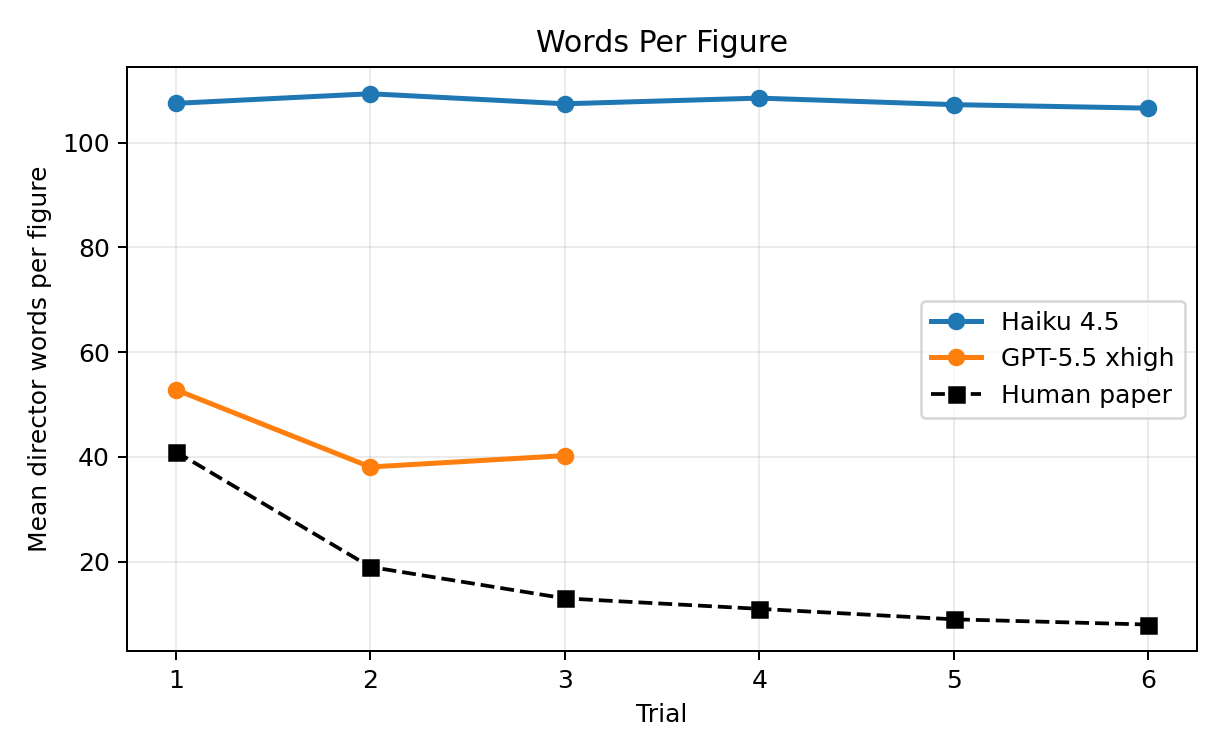
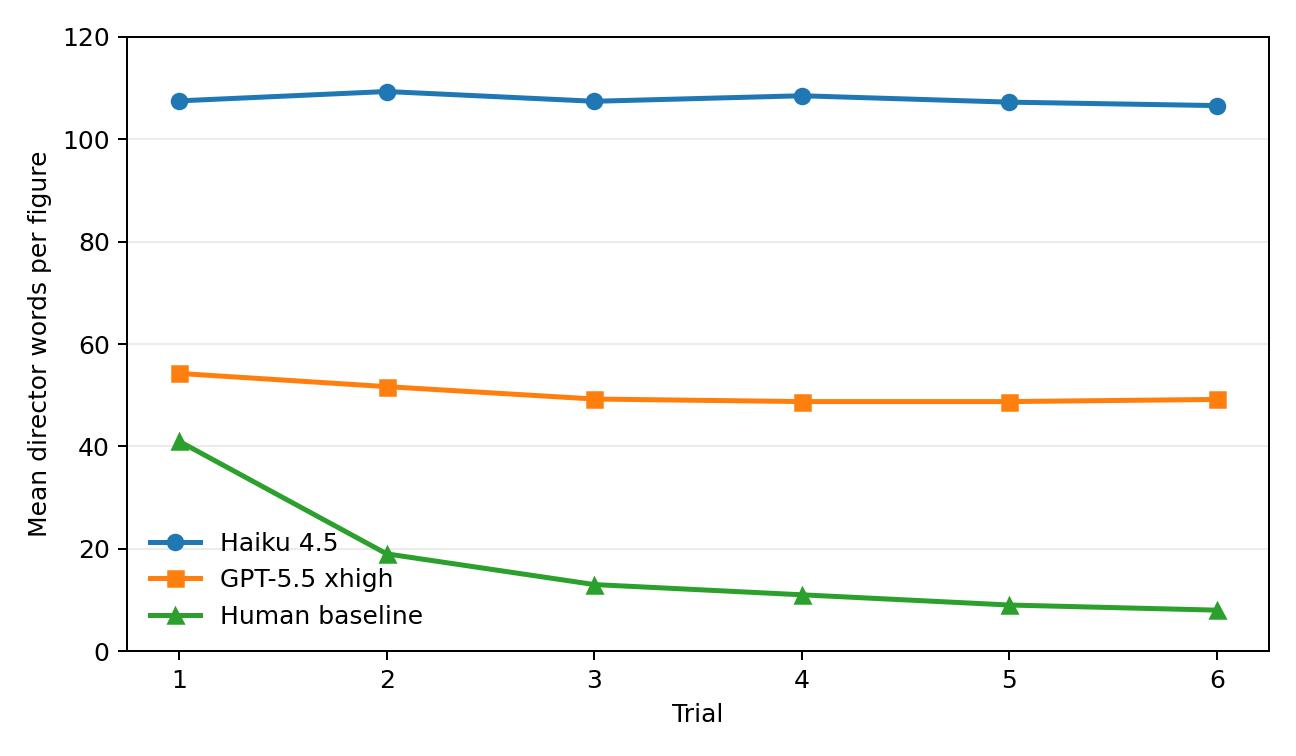
Update report with full GPT run

diff --git a/main.tex b/main.tex
@@ -32,19 +32,19 @@ Clark and Wilkes-Gibbs (1986) showed that pairs of human participants rapidly co
 
 We ran a first pilot version of the same task using Claude Haiku 4.5 as both director and matcher. We then ran the same setup with GPT-5.5 at \texttt{xhigh} reasoning effort. The instructions were intentionally minimal: the models were told the task situation, the hidden-arrangement constraint, the 1--12 ordering procedure, and the required text-interface actions. We did not instruct the models to use particular descriptive strategies, to be tentative, to compare figures, or to ask clarifying questions. Thus, the run was designed as a close text-only analogue of the paper's task constraints rather than an optimized prompt for model performance.
 
-This report summarizes one complete Haiku pair over six trials and one partial GPT-5.5 pair. It should be treated as a pilot, not as an inferential comparison to the full human sample.
+This report summarizes one complete Haiku pair over six trials and one complete GPT-5.5 pair over six trials. It should be treated as a pilot, not as an inferential comparison to the full human sample of eight pairs.
 
 \section*{Method}
 
 The first model was \texttt{claude-haiku-4-5-20251001}. The second model was \texttt{gpt-5.5} with \texttt{xhigh} reasoning effort. Both roles retained the full prior dialogue across trials, as in the human repeated-reference design. The 12 Tangram figures were shown as separate images. Internal figure labels were used only for scoring and were not presented as shared labels. Each participant had private image numbers, independently randomized, and these were not valid communicative references.
 
-Both runs used the same minimal paper-style instruction set. The Haiku run terminated normally for all six trials. The GPT-5.5 run terminated normally for trials 1--3, then hit an OpenAI \texttt{insufficient\_quota} error near the end of trial 4. Trial 5 immediately failed for the same reason and is excluded from substantive interpretation. The GPT-5.5 results are therefore partial and should be read as qualitative pilot evidence.
+Both runs used the same minimal paper-style instruction set. The Haiku and GPT-5.5 runs both terminated normally for all six trials.
 
 \section*{Primary Results}
 
 \subsection*{Model comparison}
 
-The main quantitative contrast is stark. In the three completed GPT-5.5 trials, every placement was correct. Haiku was well above a random baseline but much less accurate. GPT-5.5 also used many fewer director words per figure than Haiku, especially after the first trial. It did not reproduce the human six-trial trajectory because the run stopped early, but it did show immediate successful use of distinctive visual descriptions and some reuse of shared labels.
+The main quantitative contrast is stark. GPT-5.5 placed every figure correctly for the first five trials and made four errors in trial 6, for 68/72 correct placements overall. Haiku was well above a random baseline but much less accurate. GPT-5.5 also used many fewer director words per figure than Haiku, but it did not reproduce the human pattern of strong progressive shortening.
 
 \begin{table}[h]
 \centering
@@ -54,15 +54,15 @@ Run & Trials included & Accuracy & Words/figure & Turns/figure \\
 \midrule
 Human paper & 6 & $\sim$.98 & $\sim$16.8 & $\sim$1.77 \\
 Haiku 4.5 & 6 & .444 & 107.76 & 1.10 \\
-GPT-5.5 xhigh & 3 & 1.000 & 43.72 & 1.00 \\
+GPT-5.5 xhigh & 6 & .944 & 50.31 & 1.00 \\
 \bottomrule
 \end{tabular}
-\caption{Headline comparison. The human row uses the published approximate 2\% error rate and the mean of the published words- and turns-per-figure values across the six trials. GPT-5.5 includes completed trials only; trial 4 was substantively near-complete but terminated with an API quota error.}
+\caption{Headline comparison. The human row uses the published approximate 2\% error rate and the mean of the published words- and turns-per-figure values across the six trials.}
 \end{table}
 
 \subsection*{Words per figure}
 
-The strongest contrast with the human data is in the word-count trajectory. Human directors in Clark and Wilkes-Gibbs showed a steep reduction from about 41 words per figure on trial 1 to about 8 by trial 6. Haiku did not show this shortening. Its director produced a little over 100 words per figure on every trial.
+The strongest contrast with the human data is in the word-count trajectory. Human directors in Clark and Wilkes-Gibbs showed a steep reduction from about 41 words per figure on trial 1 to about 8 by trial 6. Haiku did not show this shortening. Its director produced a little over 100 words per figure on every trial. GPT-5.5 was much more concise than Haiku, but it also did not show human-like compression: it stayed near 50 words per figure across the six trials.
 
 \begin{table}[h]
 \centering
@@ -71,16 +71,16 @@ The strongest contrast with the human data is in the word-count trajectory. Huma
 \toprule
 Trial & Haiku words/figure & GPT-5.5 words/figure & Human words/figure & Haiku correct & GPT correct \\
 \midrule
-1 & 107.50 & 52.83 & 41 & 5/12 & 12/12 \\
-2 & 109.33 & 38.08 & 19 & 6/12 & 12/12 \\
-3 & 107.42 & 40.25 & 13 & 5/12 & 12/12 \\
-4 & 108.50 & 37.00 & 11 & 6/12 & quota error \\
-5 & 107.25 & -- & 9 & 4/12 & -- \\
-6 & 106.58 & -- & 8 & 6/12 & -- \\
+1 & 107.50 & 54.25 & 41 & 5/12 & 12/12 \\
+2 & 109.33 & 51.67 & 19 & 6/12 & 12/12 \\
+3 & 107.42 & 49.25 & 13 & 5/12 & 12/12 \\
+4 & 108.50 & 48.75 & 11 & 6/12 & 12/12 \\
+5 & 107.25 & 48.75 & 9 & 4/12 & 12/12 \\
+6 & 106.58 & 49.17 & 8 & 6/12 & 8/12 \\
 \bottomrule
 \end{tabular}
 }
-\caption{Words per figure and accuracy by trial. Human values are the published approximate means from Clark and Wilkes-Gibbs. GPT-5.5 trial 4 did not terminate normally, and trials 5--6 were not completed.}
+\caption{Words per figure and accuracy by trial. Human values are the published approximate means from Clark and Wilkes-Gibbs.}
 \end{table}
 
 \begin{figure}[h]
@@ -91,20 +91,20 @@ Trial & Haiku words/figure & GPT-5.5 words/figure & Human words/figure & Haiku c
 
 \subsection*{Turns per figure}
 
-Human directors also reduced their turns per figure across trials, from about 3.7 to about 1.2. Haiku used about one director turn per figure throughout. This is not the same pattern as the human data. Rather than converging from initially extended negotiation to later concise exchanges, Haiku generally offered a long description and the matcher placed a figure quickly.
+Human directors also reduced their turns per figure across trials, from about 3.7 to about 1.2. Both model pairs used about one director turn per figure throughout. This is not the same pattern as the human data. Rather than converging from initially extended negotiation to later concise exchanges, the models generally offered a description and the matcher placed a figure quickly.
 
 \begin{table}[h]
 \centering
-\begin{tabular}{rrr}
+\begin{tabular}{rrrr}
 \toprule
-Trial & Haiku director turns/figure & Human director turns/figure \\
+Trial & Haiku director turns/figure & GPT director turns/figure & Human director turns/figure \\
 \midrule
-1 & 1.17 & 3.7 \\
-2 & 1.08 & 1.9 \\
-3 & 1.08 & 1.4 \\
-4 & 1.08 & 1.3 \\
-5 & 1.08 & 1.1 \\
-6 & 1.08 & 1.2 \\
+1 & 1.17 & 1.00 & 3.7 \\
+2 & 1.08 & 1.00 & 1.9 \\
+3 & 1.08 & 1.00 & 1.4 \\
+4 & 1.08 & 1.00 & 1.3 \\
+5 & 1.08 & 1.00 & 1.1 \\
+6 & 1.08 & 1.00 & 1.2 \\
 \bottomrule
 \end{tabular}
 \caption{Mean director turns per figure.}
@@ -112,17 +112,17 @@ Trial & Haiku director turns/figure & Human director turns/figure \\
 
 \subsection*{Accuracy}
 
-The original human error rate was about 2\%. Haiku's accuracy was much lower and did not improve across trials. Across the six trials, Haiku placed 32 of 72 figures correctly, for an overall accuracy of 44.4\%.
+The original human error rate was about 2\%. Haiku's accuracy was much lower and did not improve across trials. Across the six trials, Haiku placed 32 of 72 figures correctly, for an overall accuracy of 44.4\%. GPT-5.5 placed 68 of 72 figures correctly, for 94.4\% accuracy. Its errors were concentrated in the final trial, where two pairs of figures were swapped: K/L and A/E.
 
-This is nevertheless well above a random-ordering baseline. For a random permutation of 12 figures, the expected number of correct positions is 1 per trial, or 6 correct placements over six trials. Under the exact random-permutation distribution, obtaining 32 or more correct placements out of 72 has probability approximately $9.1 \times 10^{-14}$. Thus, Haiku was not guessing: it extracted useful information from the images and dialogue, but did so much less effectively than human participants.
+Haiku's result, though low, is well above a random-ordering baseline. For a random permutation of 12 figures, the expected number of correct positions is 1 per trial, or 6 correct placements over six trials. Under the exact random-permutation distribution, obtaining 32 or more correct placements out of 72 has probability approximately $9.1 \times 10^{-14}$. Thus, Haiku was not guessing: it extracted useful information from the images and dialogue, but did so much less effectively than human participants.
 
 \subsection*{Basic exchanges}
 
-In the human data, basic exchanges increased from 18\% on trial 1 to over 80\% by trials 4--6. Haiku's exchanges were basic in a different and less successful sense. After trial 1, every placement met our heuristic definition of a basic exchange: the director presented a reference and the matcher placed a figure in the first response. But this high basic-exchange rate co-occurred with low accuracy, suggesting premature acceptance rather than well-established shared reference.
+In the human data, basic exchanges increased from 18\% on trial 1 to over 80\% by trials 4--6. Haiku's exchanges were basic in a different and less successful sense. After trial 1, nearly every placement had the director present a reference and the matcher place a figure in the first response, but this co-occurred with low accuracy, suggesting premature acceptance rather than well-established shared reference. GPT-5.5 also used one-step placements, but these were usually accurate until the final-trial swaps.
 
 \subsection*{Position effects}
 
-Clark and Wilkes-Gibbs reported that, within a trial, later positions required fewer words because fewer candidate figures remained. This slope weakened across trials. Haiku did not show the same pattern. In this pilot, the estimated slope of words by position was approximately $-0.42$ in trial 1, $+3.85$ in trial 2, and $+2.79$ in trial 6. These values are not comparable to the human slope pattern of roughly $-4.6$, $-1.0$, and $-0.4$ for trials 1, 2, and 6 respectively. The position analysis should be read cautiously for a single pair, but it provides no evidence of the human-like within-trial economy.
+Clark and Wilkes-Gibbs reported that, within a trial, later positions required fewer words because fewer candidate figures remained. This slope weakened across trials. Haiku did not show the same pattern. In this pilot, the estimated Haiku slope of words by position was approximately $-0.42$ in trial 1, $+3.85$ in trial 2, and $+2.79$ in trial 6. GPT-5.5 also showed little evidence of the human-like within-trial economy, with corresponding slopes of approximately $+1.06$, $+0.44$, and $-0.20$. These values are not comparable to the human slope pattern of roughly $-4.6$, $-1.0$, and $-0.4$ for trials 1, 2, and 6 respectively.
 
 \subsection*{Figure-level difficulty}
 
@@ -135,22 +135,22 @@ The paper reported figure-level differences, with Figure B hardest and Figure C 
 \toprule
 Figure & Haiku words/figure & Haiku accuracy & GPT words/figure & GPT accuracy & GPT label \\
 \midrule
-A & 86.83 & .000 & 49.00 & 1.000 & very tall skinny / raised hand \\
-B & 138.67 & .000 & 44.00 & 1.000 & seated-bird-like \\
-C & 94.83 & .167 & 42.00 & 1.000 & flying-bird-like diagonal \\
-D & 114.67 & .167 & 44.33 & 1.000 & tall upright / left shelf \\
-E & 132.67 & .167 & 42.33 & 1.000 & windmill-top \\
-F & 110.00 & .833 & 46.33 & 1.000 & low crouching \\
-G & 118.33 & .833 & 48.00 & 1.000 & paper-plane triangle \\
-H & 86.33 & .667 & 30.00 & 1.000 & bottle-like diamond-headed \\
-I & 90.00 & .667 & 45.33 & 1.000 & left-pointing beak/arrow \\
-J & 134.50 & 1.000 & 48.00 & 1.000 & chunky upright rectangular \\
-K & 102.67 & .667 & 41.00 & 1.000 & seated / right-pointing arm \\
-L & 83.67 & .167 & 44.33 & 1.000 & upright zigzag \\
+A & 86.83 & .000 & 49.17 & .833 & tall standing two-top-pieces \\
+B & 138.67 & .000 & 50.67 & 1.000 & dancer/bird \\
+C & 94.83 & .167 & 49.33 & 1.000 & long diagonal flying \\
+D & 114.67 & .167 & 53.33 & 1.000 & tall upright / left shelf \\
+E & 132.67 & .167 & 50.33 & .833 & reclining shoe/lounging animal \\
+F & 110.00 & .833 & 52.00 & 1.000 & low crouching \\
+G & 118.33 & .833 & 56.00 & 1.000 & low long flat-base figure \\
+H & 86.33 & .667 & 41.17 & 1.000 & bottle/vase-shaped \\
+I & 90.00 & .667 & 54.67 & 1.000 & right-facing animal / left protrusion \\
+J & 134.50 & 1.000 & 51.33 & 1.000 & compact upright blocky \\
+K & 102.67 & .667 & 48.33 & .833 & upright zigzag / beak-arm \\
+L & 83.67 & .167 & 47.33 & .833 & tall zigzag leg/foot \\
 \bottomrule
 \end{tabular}
 }
-\caption{Figure-level results. Haiku values use six trials; GPT-5.5 values use the three completed trials only. GPT labels summarize recurring director expressions.}
+\caption{Figure-level results. Both model rows use six trials. GPT labels summarize recurring director expressions.}
 \end{table}
 
 \section*{Qualitative Impression}
@@ -163,30 +163,34 @@ In the human study, reduced word and turn counts reflected successful convergenc
 \emph{``This figure has a rotated square at the top, and below it is a larger angular shape that extends downward and slightly to the right. The body is more jagged and irregular compared to position 2, with a pointed or angular bottom section.''}
 \end{modelquote}
 
-GPT-5.5 behaved differently. Its first-trial descriptions were still detailed, but they were organized around distinctive, image-specific visual anchors. The director combined overall silhouette, head type and location, distinctive appendages, and base or foot shape. Examples include \emph{flying-bird-like diagonal}, \emph{low crouching}, \emph{upright zigzag}, \emph{diamond head}, \emph{tilted square head}, \emph{left-pointing beak/arrow}, \emph{paper-plane triangle}, \emph{raised hand}, \emph{flat-bottomed base}, and \emph{slanted lower-left foot}. These expressions were sufficiently discriminating for the matcher to identify the intended figure on the first placement attempt in every completed trial.
+GPT-5.5 behaved differently. Its first-trial descriptions were still detailed, but they were organized around distinctive, image-specific visual anchors. The director combined overall silhouette, head type and location, distinctive appendages, and base or foot shape. Examples include \emph{long diagonal flying}, \emph{low crouching}, \emph{upright zigzag}, \emph{bottle/vase-shaped}, \emph{left-pointing triangular protrusion}, \emph{flat base}, and \emph{right-pointing beak/arm}. These expressions were sufficiently discriminating for the matcher to identify the intended figure on the first placement attempt through the first five trials.
 
 \begin{modelquote}{GPT-5.5 example: distinctive visual anchors}
-\emph{``Position 3: the flying-bird-like figure: a long diagonal body sweeping from upper left down to lower right, with a small tilted square block sitting on the upper left wing/edge. It has a pointed tail/wing jutting left, and a raised forked/curved point on the upper right like an upturned wing.''}
+\emph{``Position 2: the long diagonal `flying' one. It has a small tilted square sitting near the upper middle-left, a broad flat wing/arm sticking out to the left.''}
 \end{modelquote}
 
-By trial 2, GPT-5.5 was already reusing shared labels established in the prior dialogue. Figure E became the \emph{windmill-top figure}; H became the \emph{simple upright bottle-like diamond-headed figure}; L became the \emph{upright zigzag diamond-headed figure}; C became the \emph{flying-bird-like diagonal figure}; and I became the \emph{diamond-headed diagonal figure with the left-pointing beak/arrow}. This resembles the qualitative direction of the human findings: the pair converged on stable perspectives. The difference is that GPT-5.5 achieved high accuracy almost immediately, with relatively little negotiation, rather than gradually constructing these conventions through many repair sequences.
+By trial 2, GPT-5.5 was already reusing shared references established in the prior dialogue. Its dominant device was to combine a previous-trial position reference with a brief visual label, for example ``the same figure that was position 9 in the previous trial'' plus ``the low crouching animal-like one''. This resembles the qualitative direction of the human findings: the pair used prior common ground to support later reference. The difference is that GPT-5.5 achieved high accuracy almost immediately, with relatively little negotiation, rather than gradually constructing these conventions through many repair sequences.
 
 \begin{modelquote}{GPT-5.5 example: reuse of shared labels}
-\emph{``Position 1: use the diamond-headed diagonal figure from last trial with the long left-pointing beak/arrow at mid-height, a small bump/tail on the right side, and a long vertical leg dropping down near the lower right to a flat foot.''}
+\emph{``Trial 5, position 1: use the same figure that was position 5 in the previous trial -- the bottle/vase-shaped vertical figure with a diamond head on top.''}
 \end{modelquote}
 
-The successful GPT-5.5 exchanges appear to depend on visually grounded descriptions and the reuse of shared referring expressions.
+The final trial shows a limitation of this strategy. GPT-5.5's four errors were not random scatter; they were two swaps among visually related figures. It confused K with L after both had been described with zigzag/diamond-head language, and A with E after both had been described as figures with distinctive upper pieces. Thus, the successful GPT-5.5 exchanges appear to depend on visually grounded descriptions and the reuse of shared referring expressions, but the same compressed common ground can become brittle when two labels remain similar.
+
+\begin{modelquote}{GPT-5.5 example: brittle reuse in trial 6}
+\emph{``Position 9: use the same figure that was position 2 in the previous trial -- the upright zigzag figure with a diamond head on top.''}
+\end{modelquote}
 
 \section*{Limitations}
 
-This is a single-pair pilot and should not be treated as a model-level estimate. The GPT-5.5 run is partial because it exhausted available OpenAI quota during trial 4. No manual qualitative coding has yet been performed for the richer categories in the paper, such as initial noun phrase type, repairs, expansions, replacements, follow-ups, analogical versus literal perspective, or holistic versus segmental description. Audio-dependent phenomena from the original study, including intonation and overlap, are not available in this text-only setting.
+This is a single-pair pilot and should not be treated as a model-level estimate. No manual qualitative coding has yet been performed for the richer categories in the paper, such as initial noun phrase type, repairs, expansions, replacements, follow-ups, analogical versus literal perspective, or holistic versus segmental description. Audio-dependent phenomena from the original study, including intonation and overlap, are not available in this text-only setting.
 
-The Haiku run used 2.41 million input tokens and 24,011 output tokens, with an estimated API cost of \$7.60. The partial GPT-5.5 run used 485,337 input tokens, 21,399 output tokens, and 16,693 reasoning tokens before quota exhaustion, with an estimated API cost of \$3.57 using the configured GPT-5.5 rates. These costs have no human analogue but are useful for planning larger model samples.
+The Haiku run used 2.41 million input tokens and 24,011 output tokens, with an estimated API cost of \$7.60. The GPT-5.5 run used 1.06 million input tokens, 54,947 output tokens, and 48,268 reasoning tokens, with an estimated API cost of \$8.40 using the configured GPT-5.5 rates. These costs have no human analogue but are useful for planning larger model samples.
 
 \section*{Conclusion}
 
 Under minimal instructions closely matching the task constraints of Clark and Wilkes-Gibbs, Claude Haiku 4.5 completed the six-trial Tangram task and performed far above a random-ordering baseline. However, it performed poorly relative to human participants. It did not become more concise, did not become more accurate, and did not show evidence of successful progressive conventionalization.
 
-GPT-5.5 showed a different pattern in the partial run. It was perfectly accurate in the three complete trials and produced much more discriminating descriptions. It also reused stable labels across trials, suggesting a closer qualitative resemblance to the human process of establishing shared perspectives. The evidence remains preliminary because the GPT-5.5 run did not complete all six trials, but the contrast with Haiku is already informative: the stronger model appears able to ground reference in the visual structure of the figures and maintain those references across repeated trials.
+GPT-5.5 showed a different pattern. It was perfectly accurate for five trials and produced much more discriminating descriptions, but it did not become concise in the human way and it made a clustered set of errors in trial 6. It reused stable labels and previous-trial references, suggesting a closer qualitative resemblance to the human process of establishing shared perspectives. The contrast with Haiku is informative: the stronger model appears much better able to ground reference in the visual structure of the figures and maintain those references across repeated trials, though its conventions remained less economical and less robust than the human baseline.
 
 \end{document}
